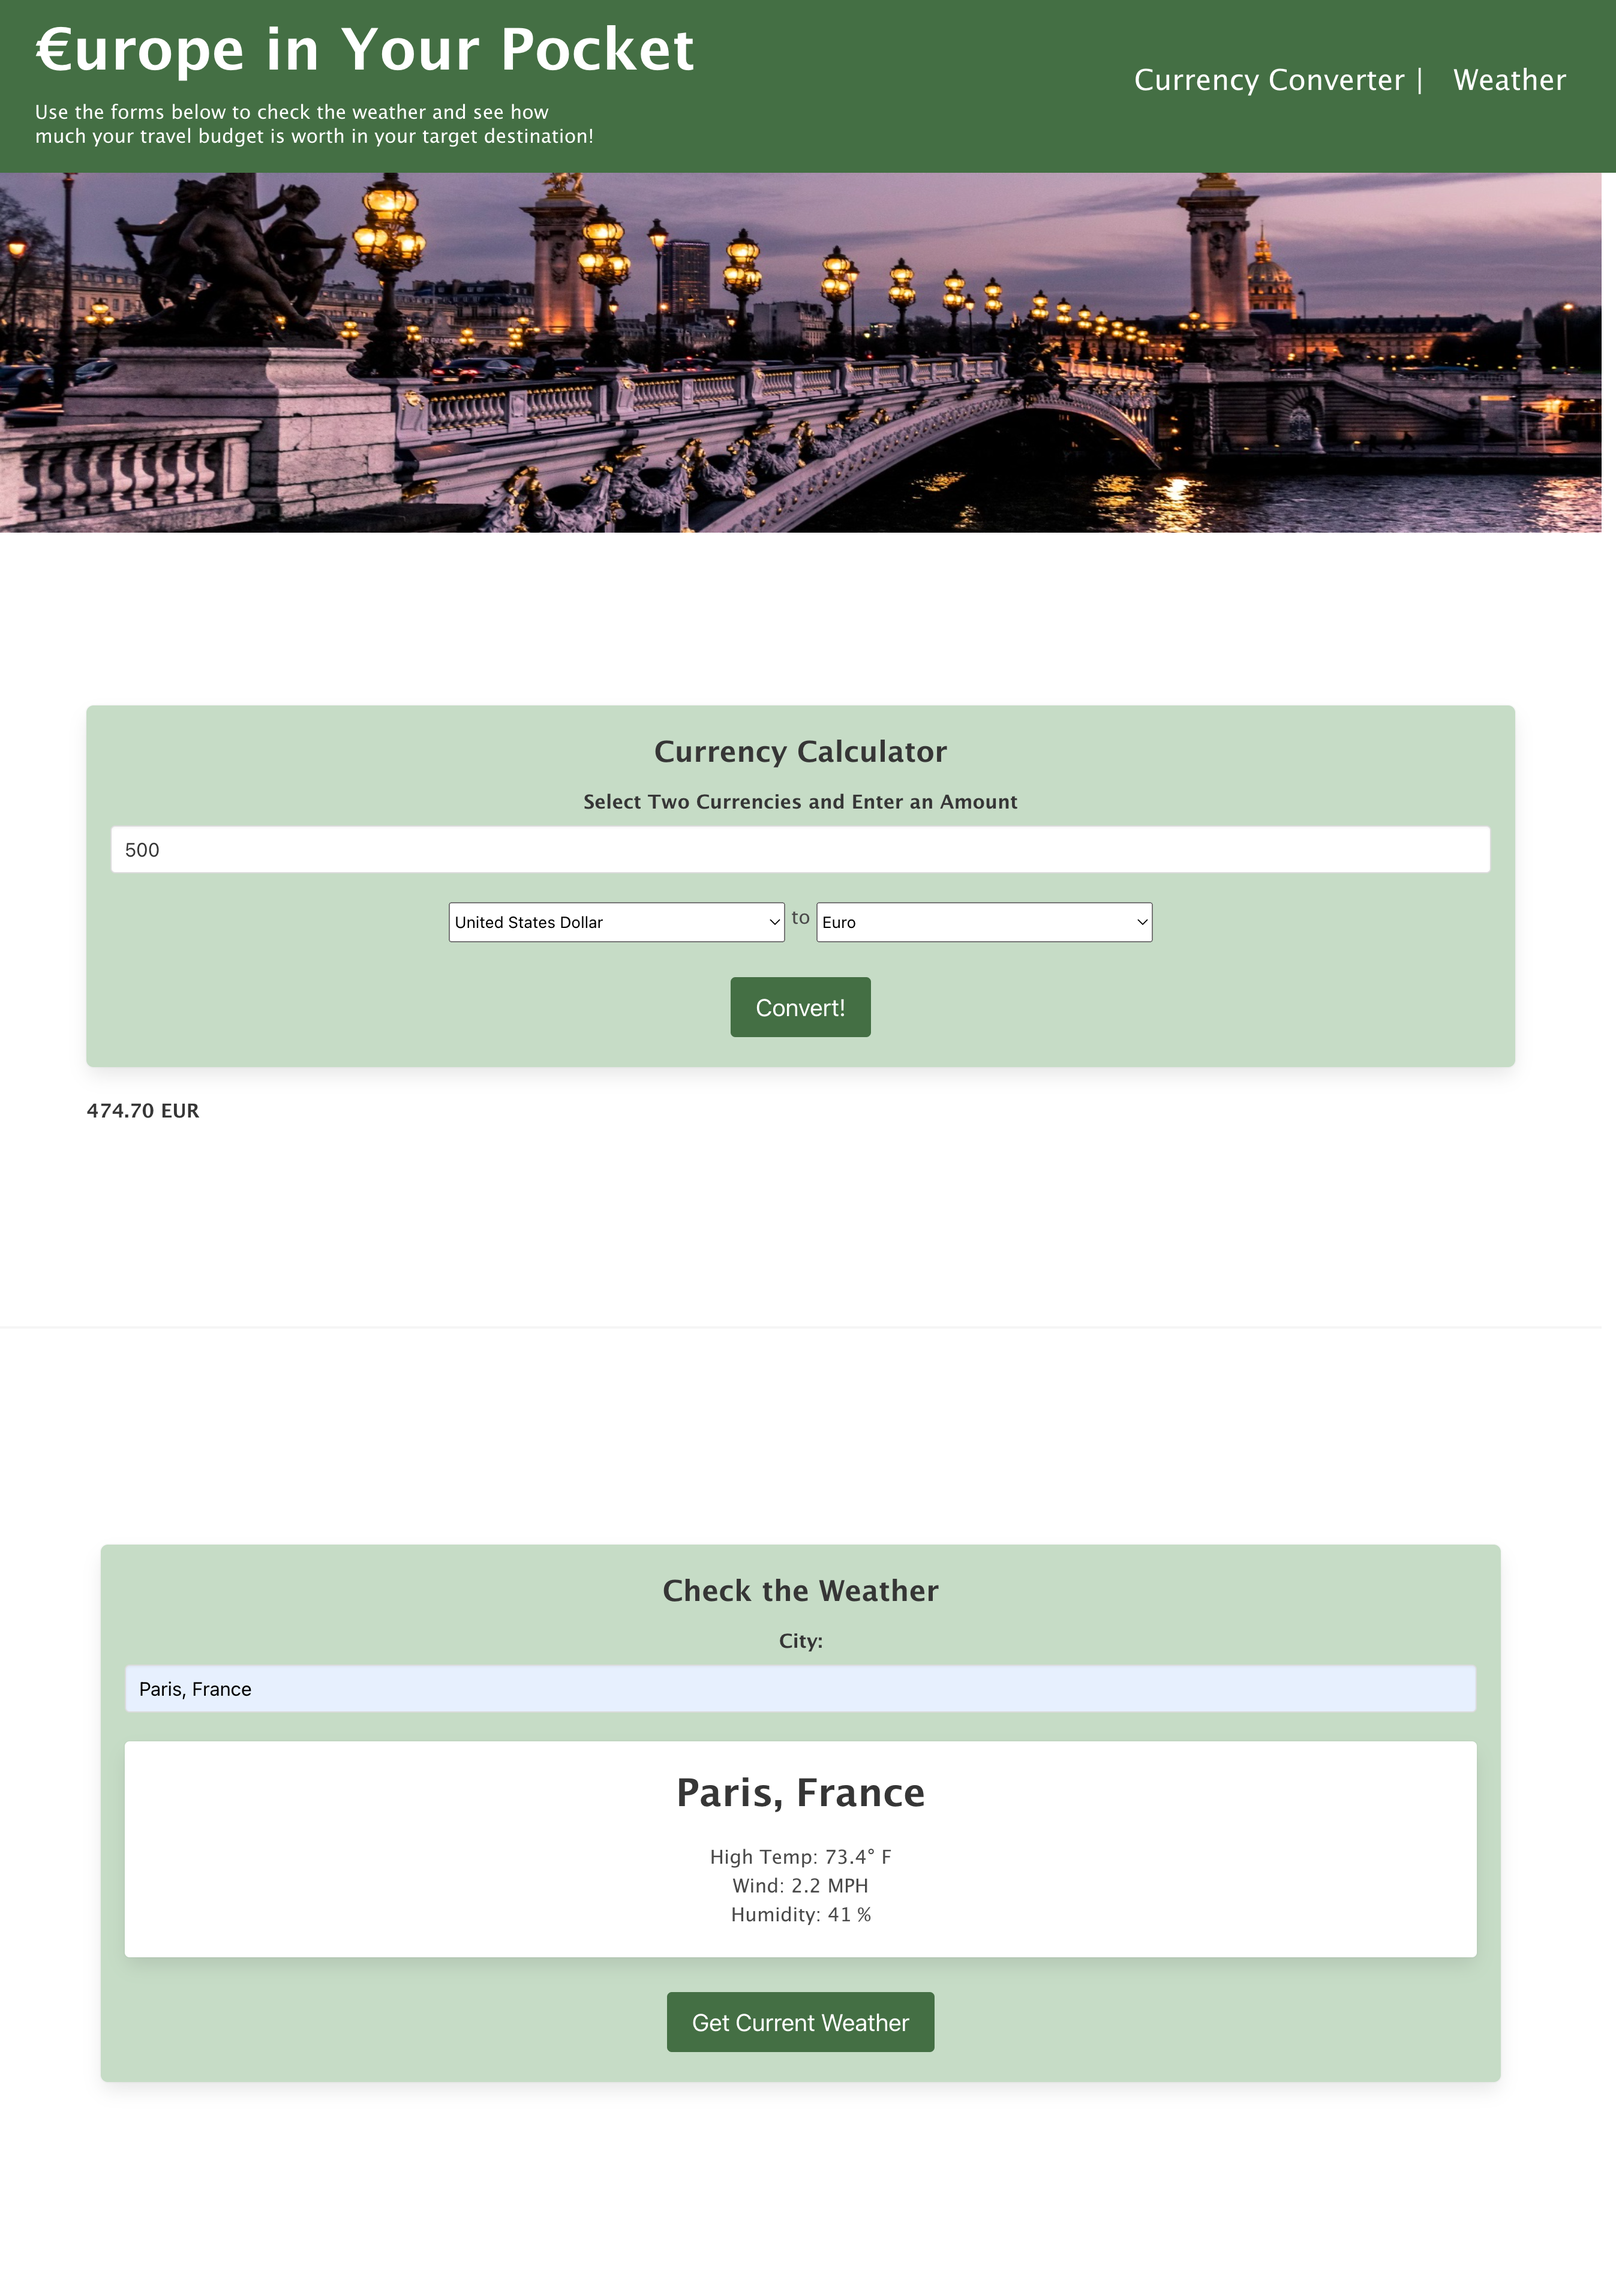
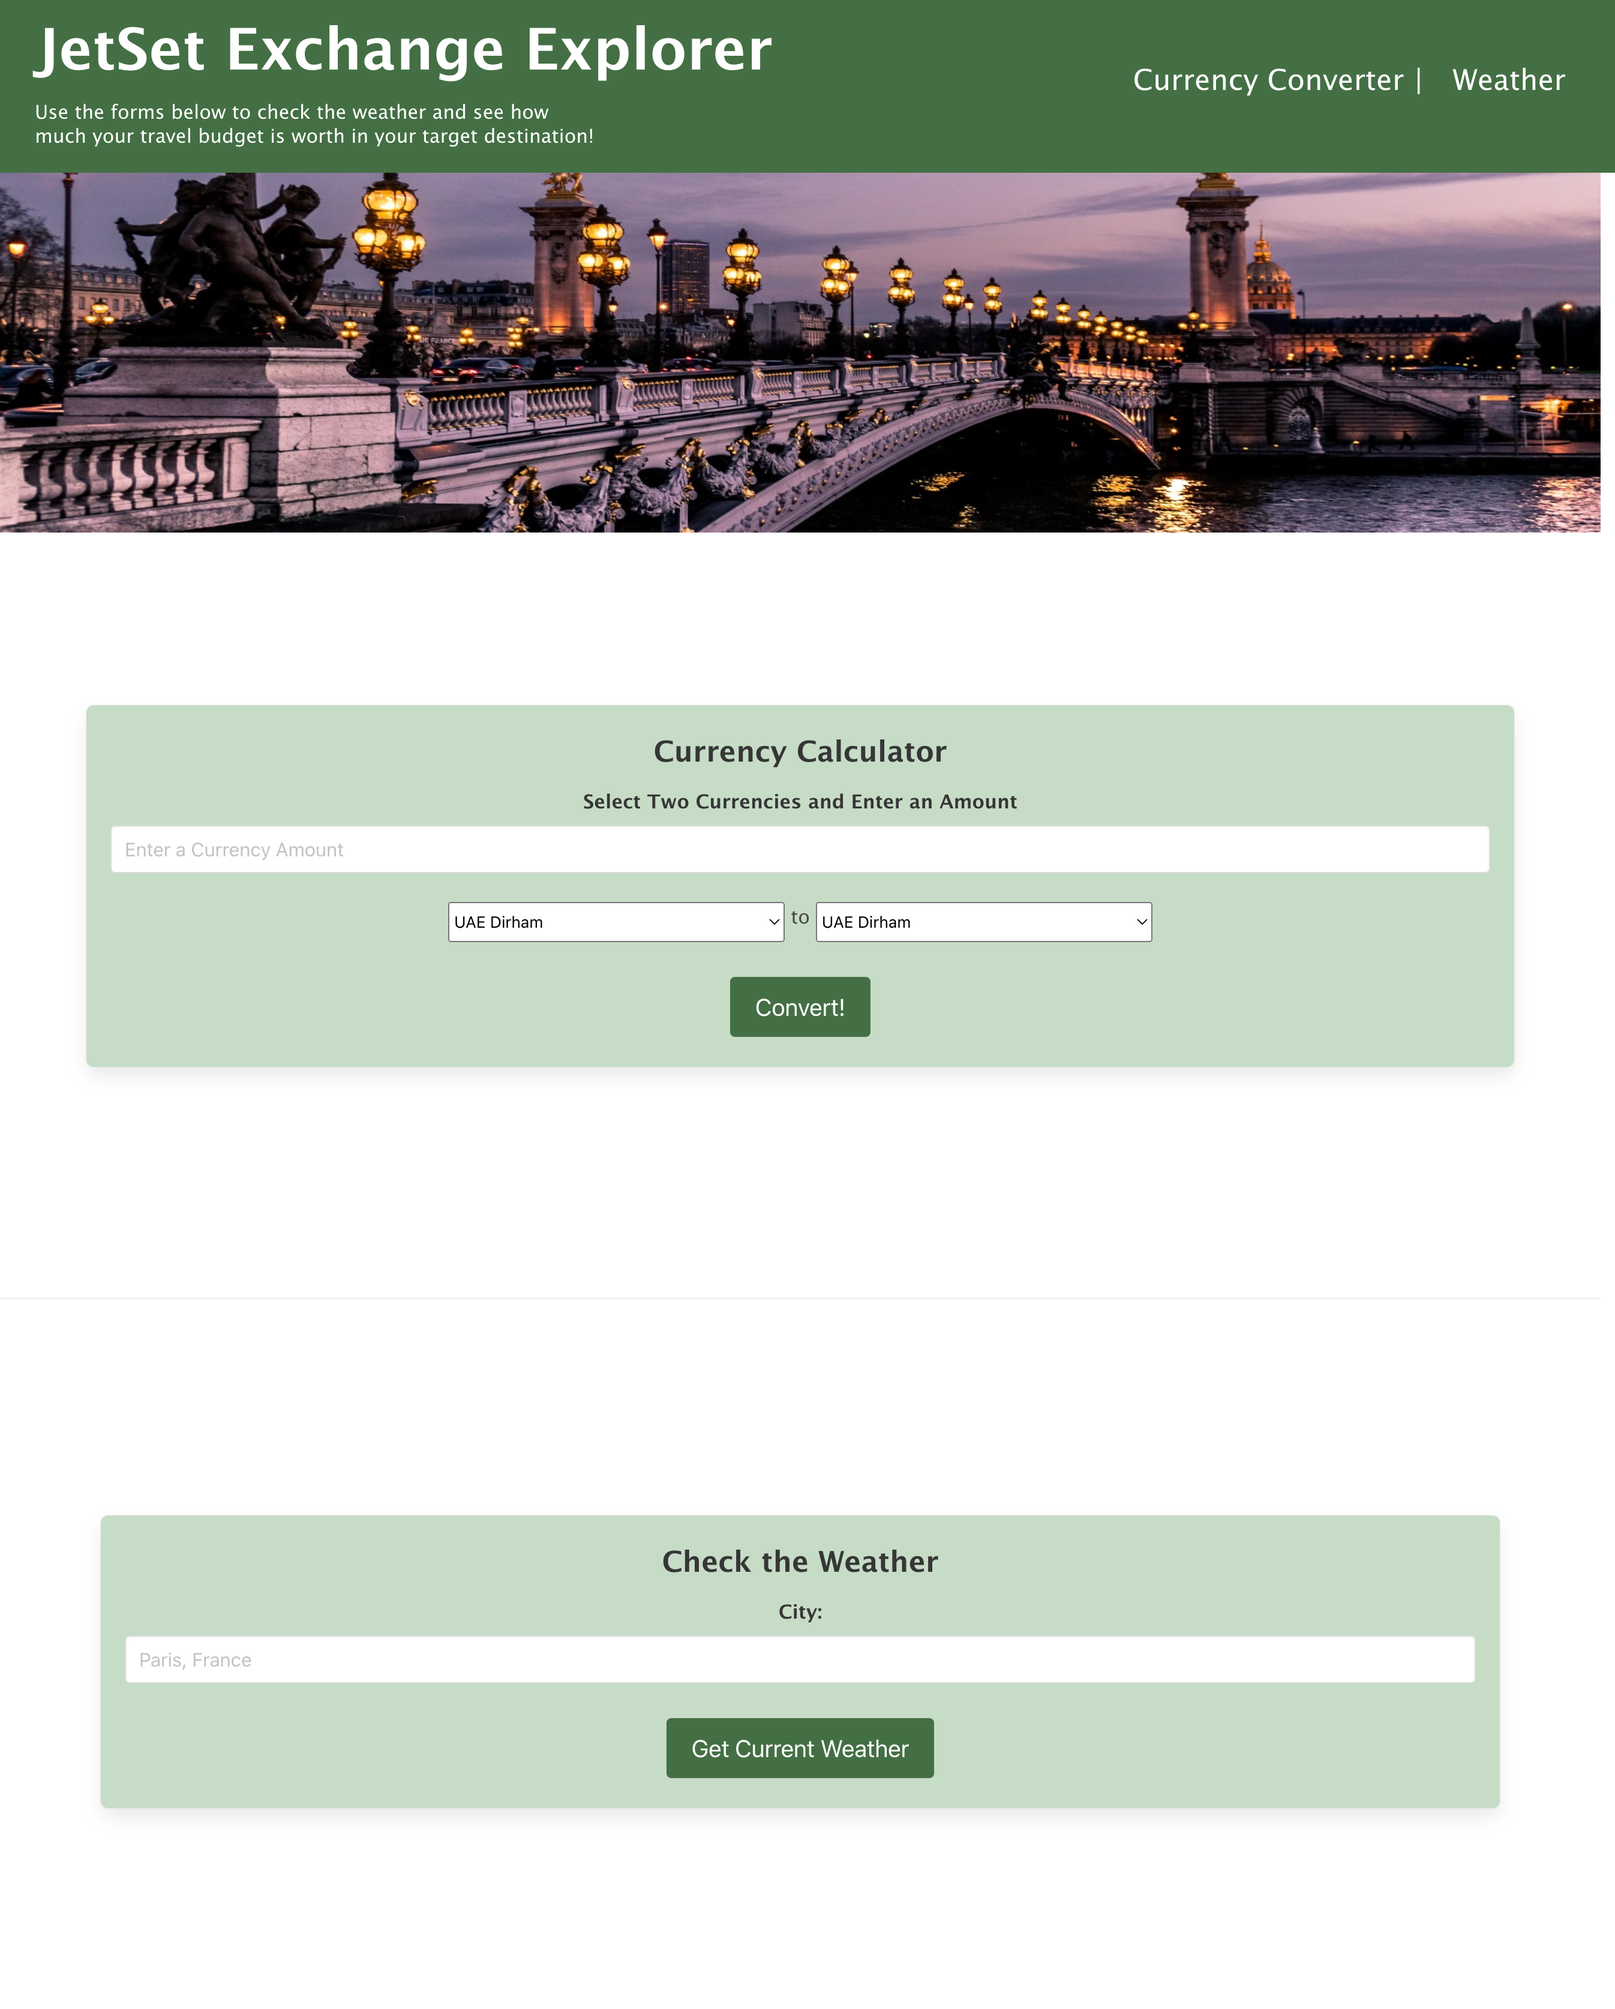
updated readme

diff --git a/README.md b/README.md
@@ -1,4 +1,4 @@
-# Europe in Your Pocket
+# JetSet Exchange Explorer 
 
 ## Description
 
@@ -12,14 +12,14 @@ N/A
 
 This website can be used to see how much your travel budget is worth in the currency of the country you are traveling to and view the current weather in a destination of your choosing. 
 
-[Link to Europe in Your Pocket webpage](https://crcarmen23.github.io/europe-in-your-pocket/)
+[Link to JetSet Exchange Explorer webpage](https://github.com/crcarmen23/jetset-exchange-explorer)
 
 ![screenshot](./assets/images/screenshot.png)
 
 
 ## Credits
 
-Carmen Regina, Conor Reed, Kevin Serrano, and Zechiel Lozer with help from Leif Hetland, Fred Kamm, and Mohit Dhankher.
+Carmen Regina, Conor Reed, Kevin Serrano, and Zechiel Lozer with help from Leif Hetland and Fred Kamm.
 
 ## License
 
